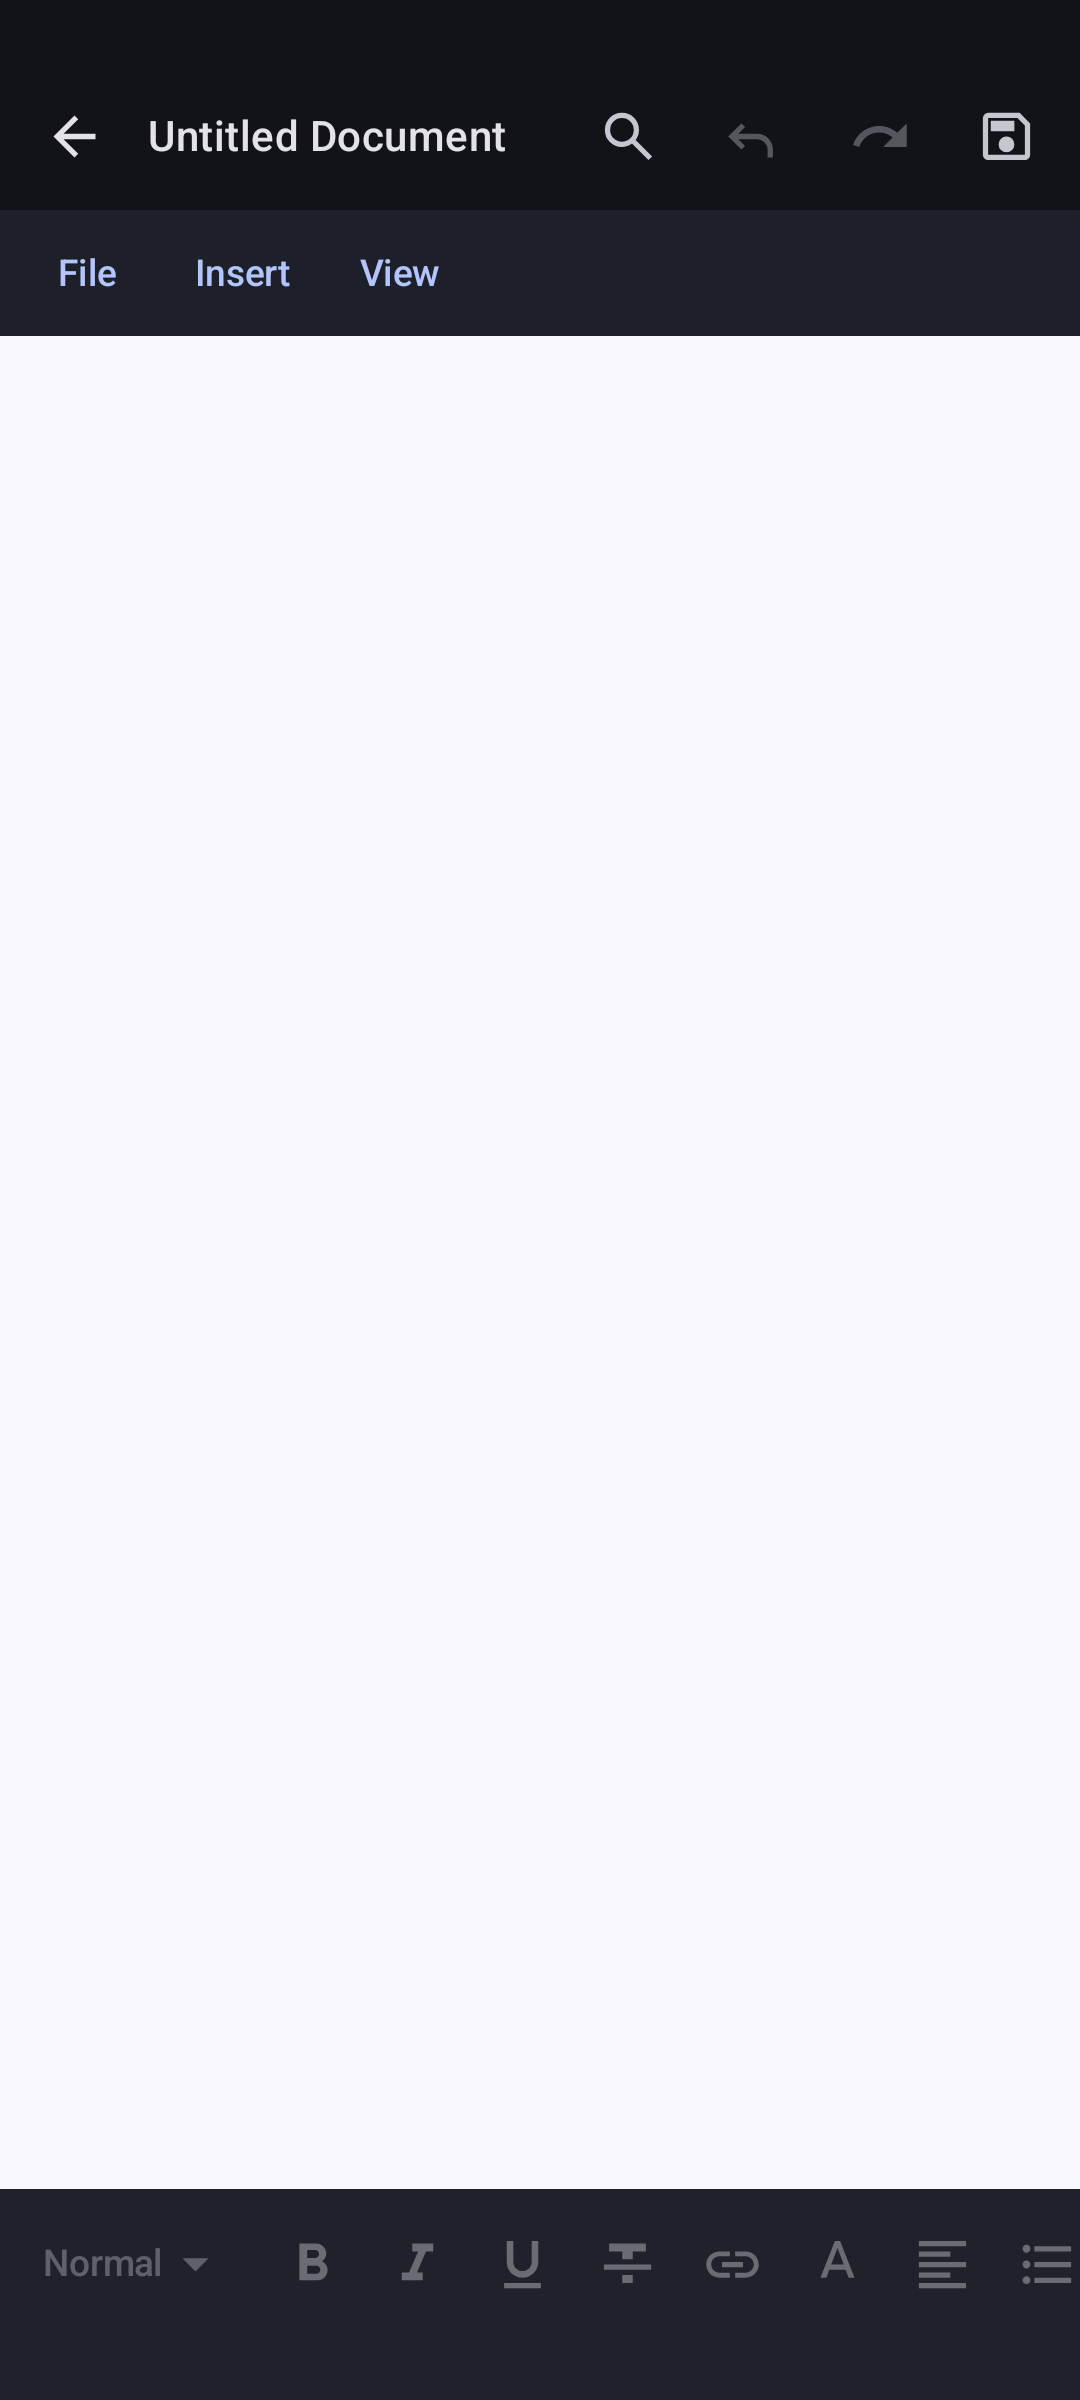
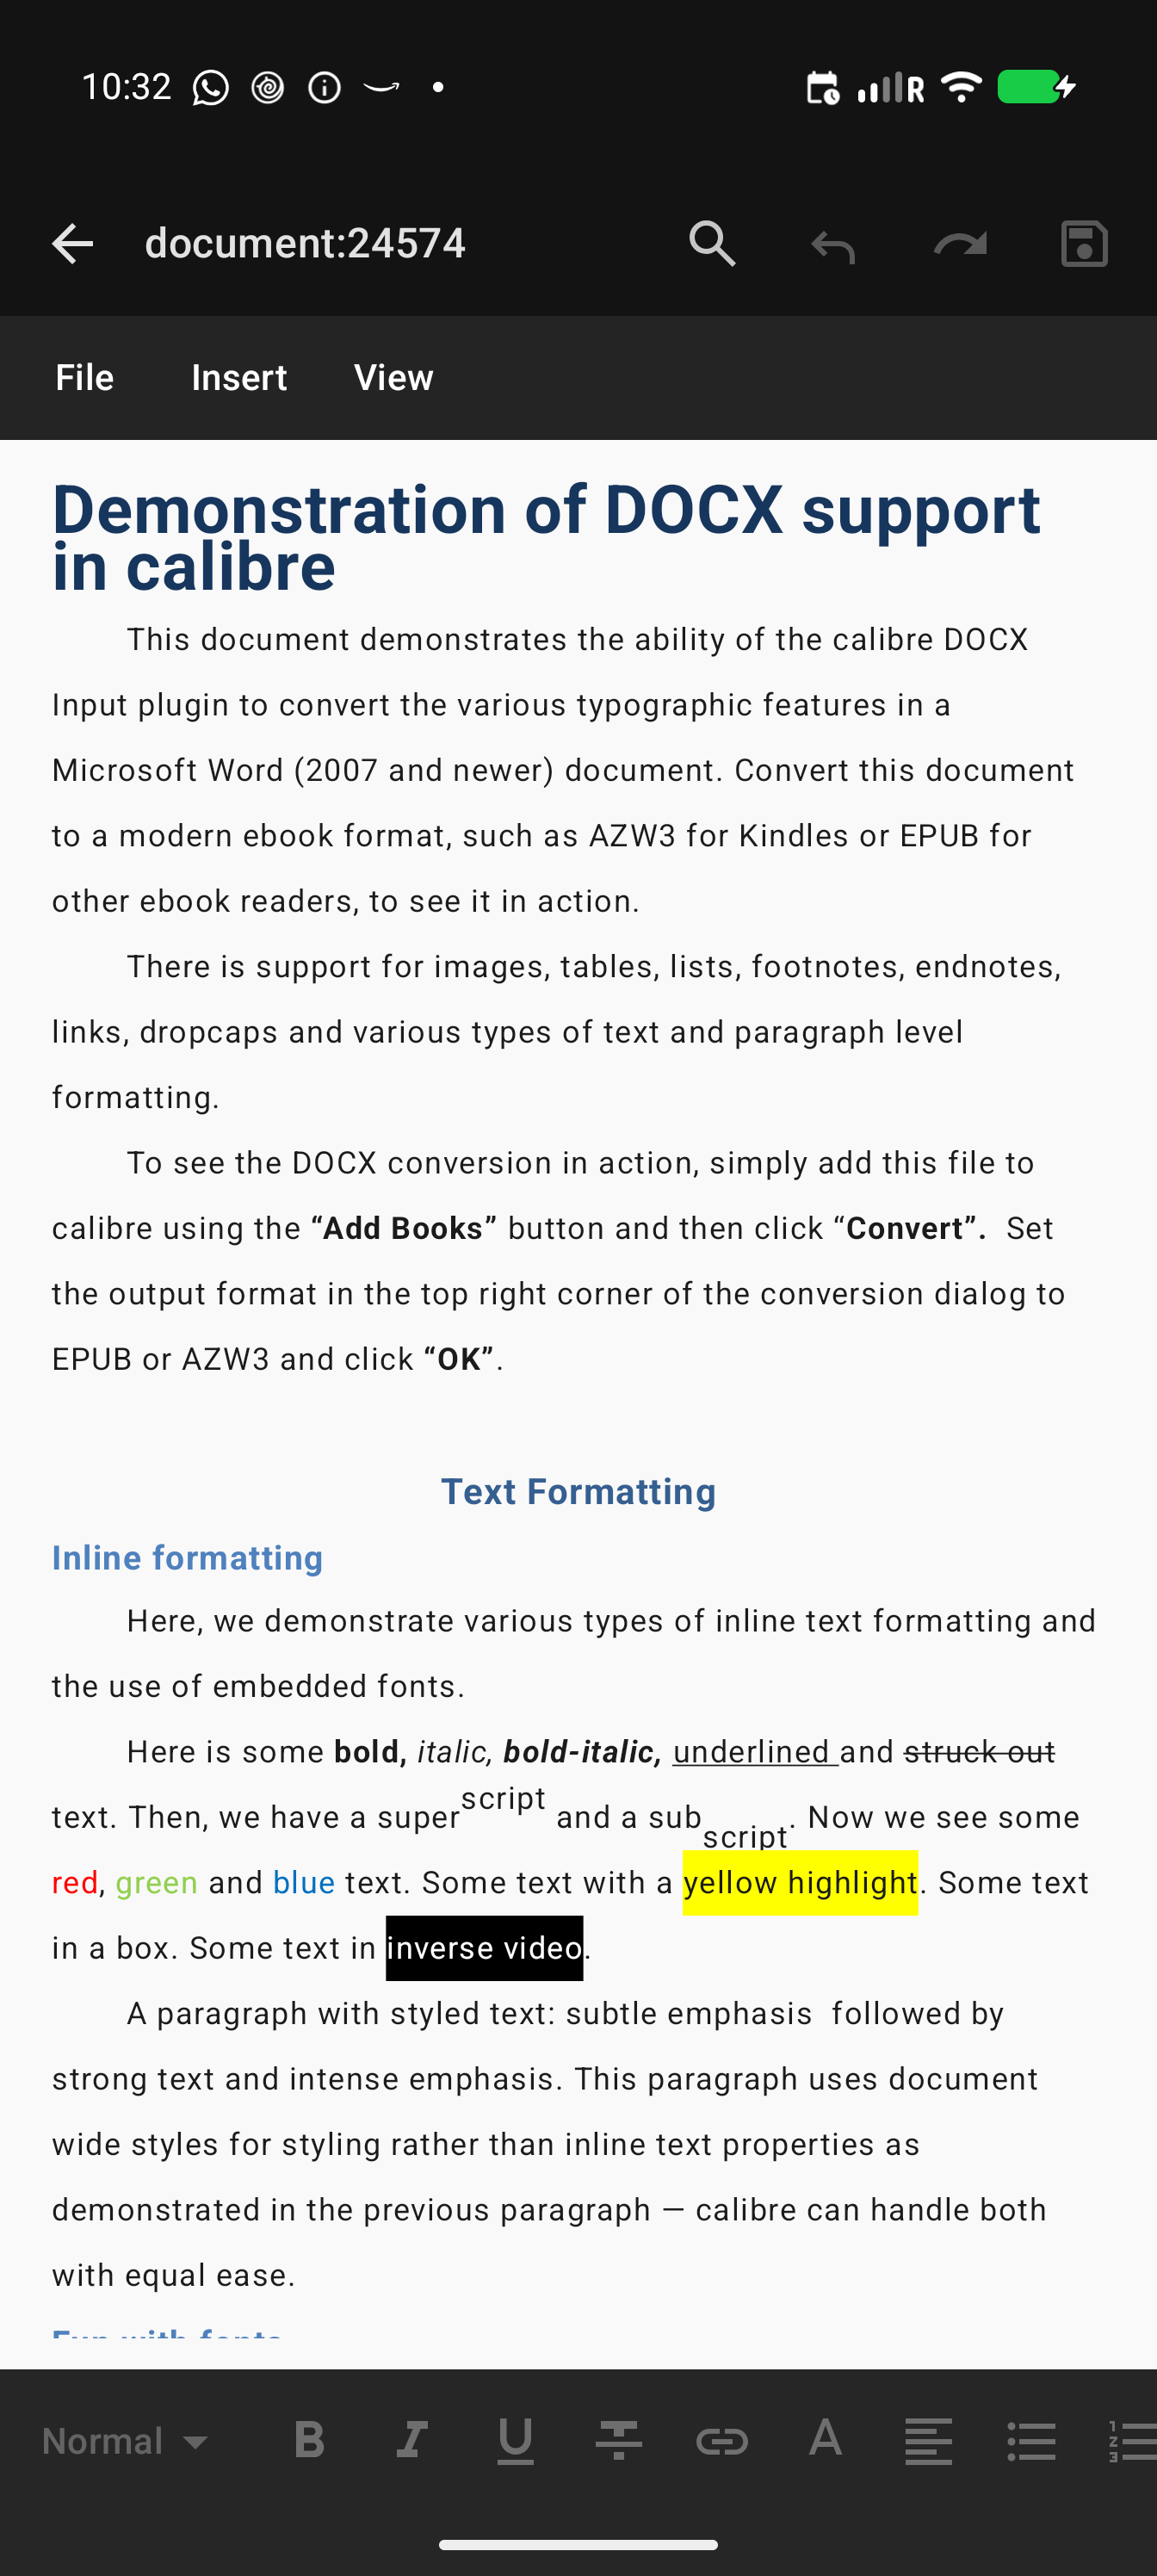
office: updated automated screenshot generation

diff --git a/office/src/androidTest/java/com/vayunmathur/office/MetadataScreenshots.kt b/office/src/androidTest/java/com/vayunmathur/office/MetadataScreenshots.kt
@@ -1,12 +1,18 @@
 package com.vayunmathur.office
 
+import android.content.ContentValues
+import android.content.Intent
 import android.graphics.Bitmap
+import android.net.Uri
+import android.os.Environment
+import android.provider.MediaStore
 import androidx.compose.ui.graphics.asAndroidBitmap
+import androidx.compose.ui.semantics.ProgressBarRangeInfo
 import androidx.compose.ui.test.captureToImage
-import androidx.compose.ui.test.junit4.createAndroidComposeRule
-import androidx.compose.ui.test.onNodeWithText
+import androidx.compose.ui.test.hasProgressBarRangeInfo
+import androidx.compose.ui.test.junit4.createEmptyComposeRule
 import androidx.compose.ui.test.onRoot
-import androidx.compose.ui.test.performClick
+import androidx.test.core.app.ActivityScenario
 import androidx.test.ext.junit.runners.AndroidJUnit4
 import androidx.test.platform.app.InstrumentationRegistry
 import org.junit.Rule
@@ -15,22 +21,78 @@ import org.junit.runner.RunWith
 import java.io.File
 
 /**
- * Screenshot generator driven by `:office:metadata`. Leads with the document editor
- * (created via "New Doc"), followed by the offline home with the document-type options.
+ * Screenshot generator driven by `:office:metadata`. Opens the three real sample documents that
+ * ship in `metadata_data/assets` (bundled into this test APK's assets) exactly the way a user
+ * would: each file is staged onto the device and handed to [MainActivity] through an
+ * `ACTION_VIEW` intent, so the store shots show the app rendering genuine documents.
+ *
+ * Order (best first): doc = 1, spreadsheet = 2, presentation = 3.
+ *
+ * The shared [com.vayunmathur.metadata.PlaystoreIconRenderer] test (from build-logic) runs in the
+ * same instrumentation pass and is untouched.
  */
 @RunWith(AndroidJUnit4::class)
 class MetadataScreenshots {
 
+    // We launch each activity ourselves via ActivityScenario, so the compose rule only needs to
+    // attach to whatever composition is currently on screen.
     @get:Rule
-    val composeRule = createAndroidComposeRule<MainActivity>()
+    val composeRule = createEmptyComposeRule()
 
-    private val ctx = InstrumentationRegistry.getInstrumentation().targetContext
+    private val instrumentation = InstrumentationRegistry.getInstrumentation()
+
+    // The instrumentation (test-apk) context owns the bundled androidTest assets.
+    private val testCtx = instrumentation.context
+
+    // The app-under-test context: instrumentation loads us into its process, so MediaStore entries
+    // we insert here are owned by the app and readable back without any cross-app uri grant.
+    private val appCtx = instrumentation.targetContext
 
     private val outDir: File by lazy {
-        File(ctx.getExternalFilesDir(null), "metadata_screenshots").apply {
+        File(appCtx.getExternalFilesDir(null), "metadata_screenshots").apply {
             deleteRecursively()
             mkdirs()
         }
+    }
+
+    private data class Shot(val index: Int, val asset: String, val mime: String)
+
+    private val shots = listOf(
+        Shot(1, "file-sample_1MB.docx", MIME_DOCX),
+        Shot(2, "file_example_XLSX_5000.xlsx", MIME_XLSX),
+        Shot(3, "Dickinson_Sample_Slides.pptx", MIME_PPTX),
+    )
+
+    @Test
+    fun generateStoreScreenshots() {
+        for (shot in shots) {
+            val uri = stageAsset(shot.asset, shot.mime)
+            val intent = Intent(Intent.ACTION_VIEW).apply {
+                setClassName(appCtx.packageName, "com.vayunmathur.office.MainActivity")
+                setDataAndType(uri, shot.mime)
+                addFlags(Intent.FLAG_GRANT_READ_URI_PERMISSION)
+            }
+            ActivityScenario.launch<MainActivity>(intent).use {
+                waitForDocument()
+                snap(shot.index)
+            }
+        }
+    }
+
+    /** Waits for the editor to finish loading (the loading spinner to disappear), then settles. */
+    private fun waitForDocument() {
+        // Let the first composition (which shows the loading spinner) come up before we poll.
+        Thread.sleep(800)
+        runCatching {
+            composeRule.waitUntil(timeoutMillis = 40_000) {
+                composeRule
+                    .onAllNodes(hasProgressBarRangeInfo(ProgressBarRangeInfo.Indeterminate))
+                    .fetchSemanticsNodes().isEmpty()
+            }
+        }
+        // Give the rendered "paper" a moment to lay out its first full frame.
+        Thread.sleep(1500)
+        composeRule.waitForIdle()
     }
 
     private fun snap(index: Int) {
@@ -41,15 +103,26 @@ class MetadataScreenshots {
         }
     }
 
-    @Test
-    fun generateStoreScreenshots() {
-        // Offline home is up at launch — second shot (New Doc / Sheet / Slides).
-        Thread.sleep(1000)
-        snap(2)
+    /** Copies a bundled sample document into MediaStore Downloads and returns its content Uri. */
+    private fun stageAsset(name: String, mime: String): Uri {
+        val resolver = appCtx.contentResolver
+        val values = ContentValues().apply {
+            put(MediaStore.Downloads.DISPLAY_NAME, name)
+            put(MediaStore.Downloads.MIME_TYPE, mime)
+            put(MediaStore.Downloads.RELATIVE_PATH, "${Environment.DIRECTORY_DOWNLOADS}/office_metadata")
+        }
+        val collection = MediaStore.Downloads.getContentUri(MediaStore.VOLUME_EXTERNAL_PRIMARY)
+        val uri = resolver.insert(collection, values)
+            ?: error("Could not create MediaStore entry for $name")
+        resolver.openOutputStream(uri)?.use { out ->
+            testCtx.assets.open(name).use { input -> input.copyTo(out) }
+        } ?: error("Could not open output stream for $name")
+        return uri
+    }
 
-        // Create a new text document and let the editor's WebView render it.
-        composeRule.onNodeWithText("New Doc").performClick()
-        Thread.sleep(3000)
-        snap(1)
+    private companion object {
+        const val MIME_DOCX = "application/vnd.openxmlformats-officedocument.wordprocessingml.document"
+        const val MIME_XLSX = "application/vnd.openxmlformats-officedocument.spreadsheetml.sheet"
+        const val MIME_PPTX = "application/vnd.openxmlformats-officedocument.presentationml.presentation"
     }
 }